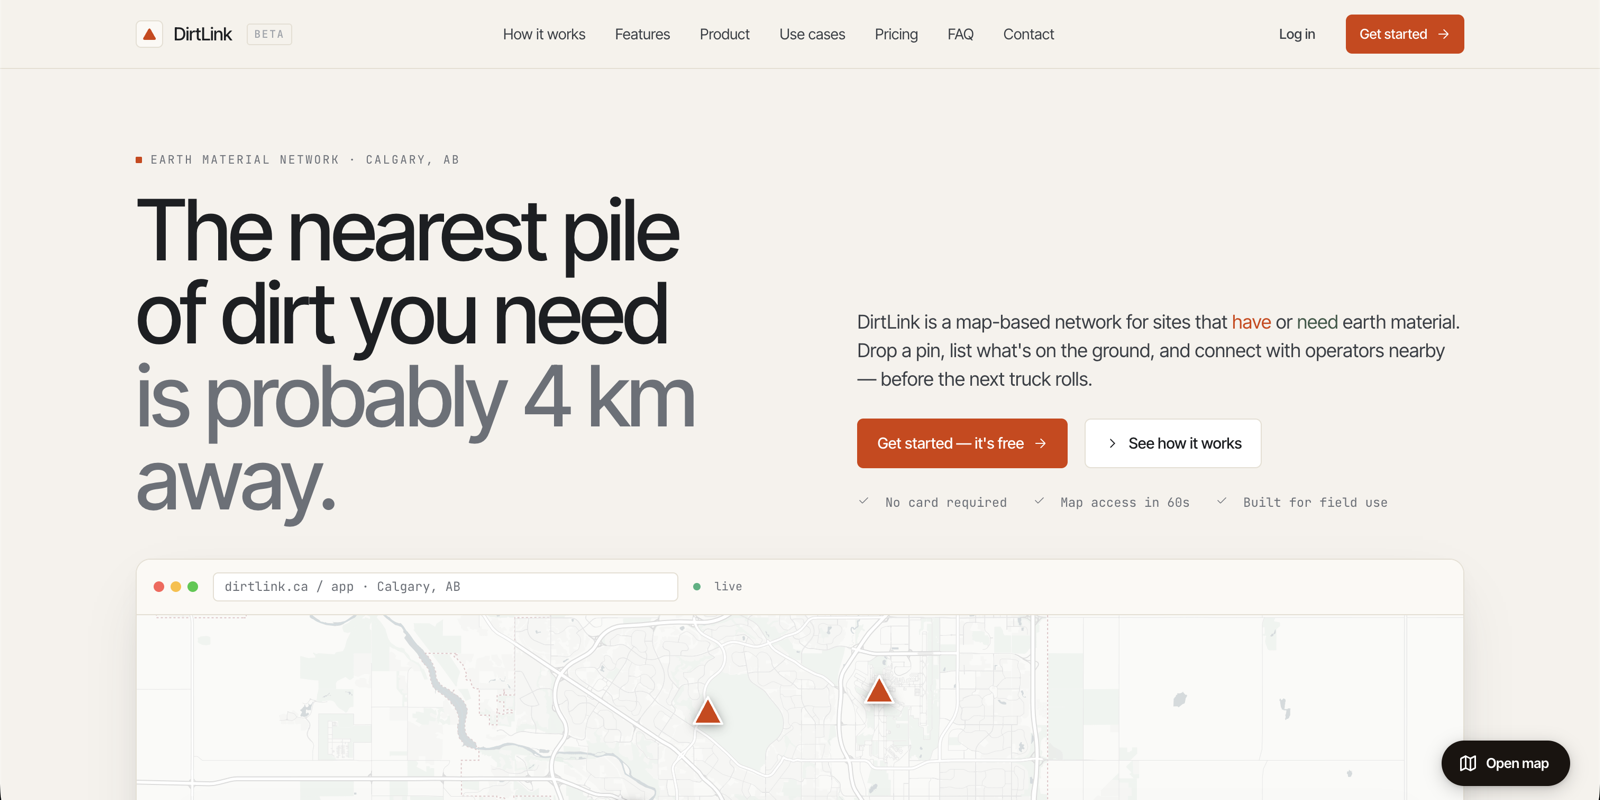
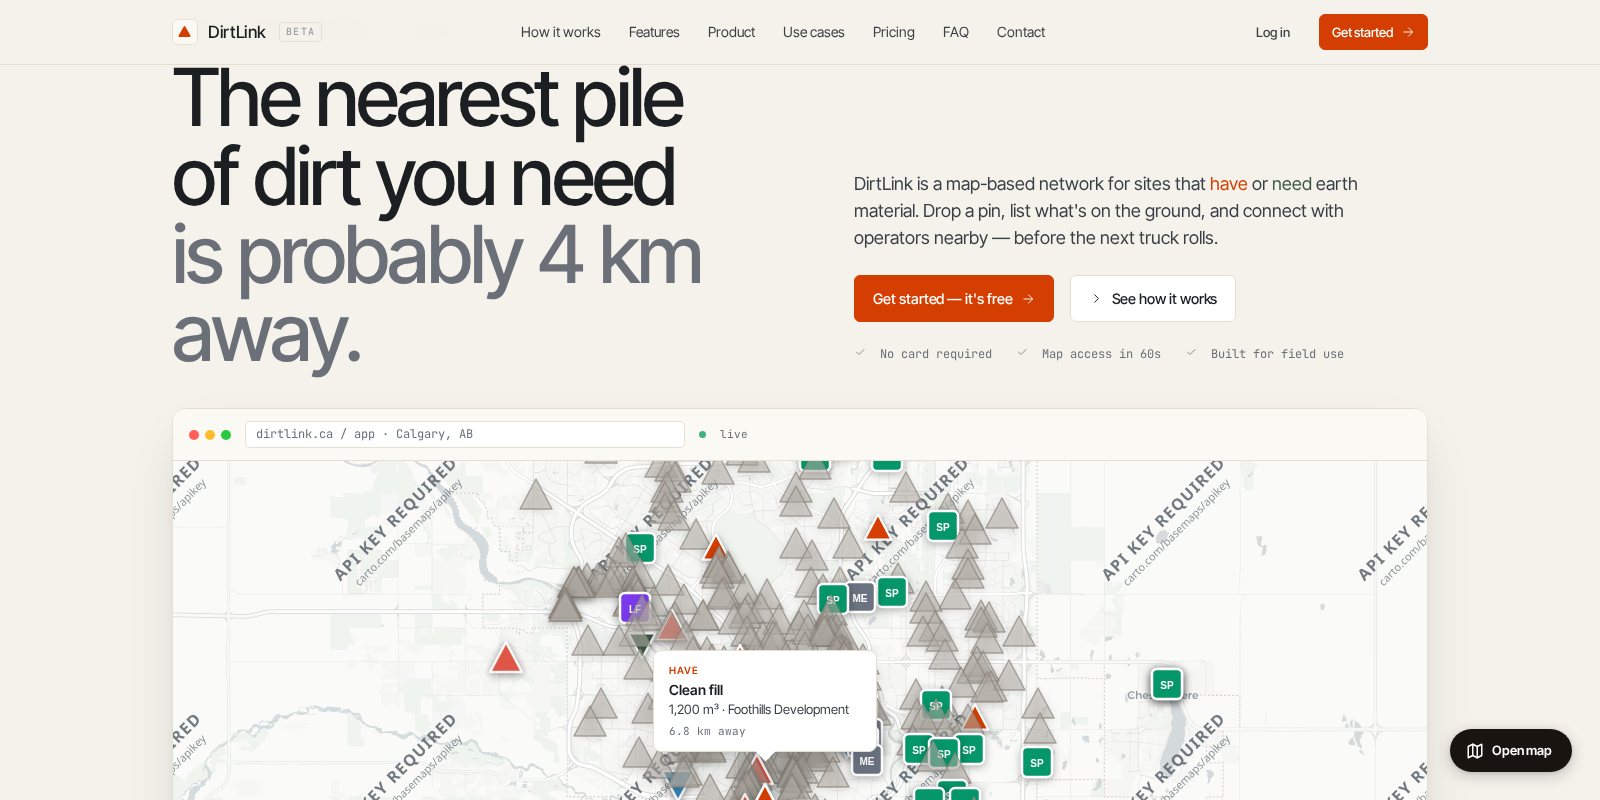
Refresh Digital Builders portfolio projects

diff --git a/src/lib/content.ts b/src/lib/content.ts
@@ -296,9 +296,9 @@ export const projects: Project[] = [
     type: "Marketplace · Web App",
     year: "2026",
     slug: "dirtlink",
-    cover: "/work/dirtlink/cover-v2.png",
+    cover: "/work/dirtlink/cover.png",
     summary:
-      "A map-based marketplace that lets Calgary construction sites post and find earth material nearby — replacing text threads and spreadsheets with one regional map.",
+      "A map-based marketplace that helps Calgary construction teams post, find, and move earth material nearby.",
     caseStudy: {
       facts: [
         { label: "Industry", value: "Construction · Calgary, AB" },
@@ -307,36 +307,31 @@ export const projects: Project[] = [
         { label: "Live site", value: "dirtlink.ca", href: "https://dirtlink.ca" },
       ],
       overview:
-        "DirtLink is a map-based network for construction sites that have or need earth material. In Calgary, contractors haul perfectly good fill to landfill while sites nearby need it — because nobody has a view across the region. DirtLink fixes that: drop a pin, list what's on the ground, and connect with operators nearby before the next truck rolls.",
+        "DirtLink gives construction teams a regional map for earth material. Sites can post what they have or need, then connect with nearby operators before the next truck rolls.",
       approachTitle: "Our approach",
       approachIntro:
-        "We designed and built DirtLink end-to-end in four months — from brand and product strategy through a live, map-first web app. The whole experience is organized around a single regional map instead of scattered texts and spreadsheets.",
+        "We shaped the product around field use: fast posting, map-first discovery, clear listing details, and direct paths from a site need to a nearby match.",
       approach: [
-        "Map-based discovery — every site, pin and listing on one regional map",
-        "Have / Need listings that match material between nearby sites",
-        "Smart filters by material, quantity, radius, access & availability",
-        "Direct messaging threaded to each site and listing",
-        "Soils reports, geotech docs & site photos attached to listings",
-        "Proximity alerts when a match appears in your working radius",
-        "Claimed site ownership and verification",
+        "Map-based discovery for sites, pins, and listings",
+        "Have / Need listings for matching material nearby",
+        "Filters for material type, quantity, radius, access, and availability",
+        "Direct messaging and claimed site ownership flows",
+        "Mobile-friendly interface for truck dash and site trailer use",
       ],
       implementation:
-        "Built for field use — fast enough for the truck dash and detailed enough for the project desk. Launched in Calgary as a free early-access beta: post and browse with no card required.",
-      results: "Delivered in four months and live in Calgary:",
+        "Built as a custom web app with a live Calgary beta, structured for listings, accounts, maps, and future marketplace growth.",
+      results: "Delivered and launched as a working early-access product:",
       resultsList: [
-        "Launched as a free early-access beta — no card required",
-        "Replaces the text-thread-and-spreadsheet loop with one map",
-        "Built for every role — excavation, developers, operators, trucking, contractors & municipalities",
-        "Targets the 30%+ of fill that goes to disposal while nearby sites need it",
+        "Replaced scattered texts and spreadsheets with one map",
+        "Created a clearer workflow for material reuse across nearby sites",
+        "Supported contractors, operators, trucking, developers, and municipalities",
       ],
       quote: "Earth material shouldn't be the thing that holds your schedule hostage.",
       images: [
-        { src: "/work/dirtlink/cover-v2.png", alt: "DirtLink landing — the nearest pile of dirt you need is probably 4 km away" },
+        { src: "/work/dirtlink/cover.png", alt: "DirtLink website screenshot" },
         { src: "/work/dirtlink/app-map.png", alt: "DirtLink app — map of Calgary sites with material pins and filters" },
         { src: "/work/dirtlink/how-it-works.png", alt: "Four steps from pile to placement" },
         { src: "/work/dirtlink/audience.png", alt: "Every role along the dirt — who DirtLink is built for" },
-        { src: "/work/dirtlink/messaging.png", alt: "Direct messaging threaded to a site and listing" },
-        { src: "/work/dirtlink/notifications.png", alt: "Notification and proximity-alert settings" },
       ],
     },
   },
@@ -347,7 +342,7 @@ export const projects: Project[] = [
     slug: "penned",
     cover: "/work/penned/cover.png",
     summary:
-      "A dead-simple e-signature web app — upload a PDF, drop signature fields, and get it signed in 30 seconds, with no bloat and no monthly fees.",
+      "A simple e-signature web app for uploading a PDF, placing signing fields, and sending documents without the usual bloat.",
     caseStudy: {
       facts: [
         { label: "Industry", value: "SaaS · E-signature" },
@@ -356,168 +351,154 @@ export const projects: Project[] = [
         { label: "Live site", value: "penned.ca", href: "https://penned.ca" },
       ],
       overview:
-        "Penned is the simplest way to get a lease, bill of sale, or any document signed online. Where tools like DocuSign pile on bloat and monthly fees, Penned does one thing well: upload a PDF, place signature fields, and send — signed in about 30 seconds. Free for up to three documents a month, with no account needed to sign.",
+        "Penned makes online signatures feel lightweight: upload a PDF, place signature fields, and send it out for signing from any device.",
       approachTitle: "Our approach",
       approachIntro:
-        "We designed and built Penned end-to-end in a single month — brand, product, and a full e-signature web app — keeping the whole experience down to three friction-free steps.",
+        "We kept the product focused on the core job: a fast document flow, clear signing state, and simple pricing instead of a heavy enterprise suite.",
       approach: [
-        "Upload any PDF or start from a template — leases, bills of sale, NDAs",
-        "Point-and-click signature, initial, date & text fields",
-        "Recipients sign from any device — no account, no app, no upsell",
-        "Instant completed PDFs delivered to both parties",
+        "Upload-first document flow",
+        "Point-and-click signature, initial, date, and text fields",
+        "Recipient signing without account friction",
         "Dashboard for documents, statuses, and saved templates",
-        "Simple, transparent pricing — free, pay-as-you-go, or unlimited",
+        "Simple pricing for occasional and frequent document senders",
       ],
       implementation:
-        "Legally binding and built to be boring on purpose: compliant with Canadian PIPEDA and U.S. ESIGN / UETA, encrypted at rest and in transit, and usable on any device with zero friction.",
-      results: "Designed, built, and launched in one month:",
+        "Designed and built as a full-stack SaaS experience with signing workflows, account areas, document handling, and billing seams.",
+      results: "Launched a focused e-signature product with a clear customer path:",
       resultsList: [
-        "Documents signed in about 30 seconds, start to finish",
-        "Free for up to 3 documents a month — no credit card required",
-        "Pricing that undercuts DocuSign's $15/mo-for-5-docs by a mile",
-        "Legally binding signatures (PIPEDA, ESIGN / UETA)",
+        "Reduced signing to a short, understandable workflow",
+        "Made the free tier and paid options easy to understand",
+        "Presented a cleaner alternative to oversized signature platforms",
       ],
       quote: "Boring on purpose. Reliable by design.",
       images: [
-        { src: "/work/penned/cover.png", alt: "Penned landing — sign documents in 30 seconds" },
+        { src: "/work/penned/cover.png", alt: "Penned website screenshot" },
         { src: "/work/penned/dashboard.png", alt: "Penned dashboard — documents, usage and saved templates" },
         { src: "/work/penned/how-it-works.png", alt: "Three steps — upload, place fields, send" },
         { src: "/work/penned/pricing.png", alt: "Pricing — free, pay-as-you-go and unlimited plans" },
-        { src: "/work/penned/billing.png", alt: "Billing and monthly plan usage" },
       ],
     },
   },
   {
-    name: "Underground Foods",
-    type: "Marketplace · Shopify",
-    year: "2025",
-    slug: "underground-foods",
-    cover: "/work/underground-foods/cover.png",
+    name: "Digital Builders",
+    type: "Agency Website · Portal",
+    year: "2026",
+    slug: "digitalbuilders",
+    cover: "/work/digitalbuilders/cover.png",
     summary:
-      "A community-driven Shopify marketplace connecting local makers and conscious buyers across Calgary.",
+      "Our own studio website and intake portal for packaged website builds, care plans, payments, and project onboarding.",
     caseStudy: {
       facts: [
-        { label: "Location", value: "Ramsay & Inglewood, Calgary" },
-        { label: "Platform", value: "Shopify" },
-        { label: "Services", value: "Strategy, UX, Shopify Development" },
-        { label: "Live site", value: "undergroundfoods.ca", href: "https://undergroundfoods.ca" },
+        { label: "Industry", value: "Web design studio" },
+        { label: "Stack", value: "Next.js · Stripe · CRM" },
+        { label: "Services", value: "Brand, Website, Portal, Payments" },
+        { label: "Live site", value: "digitalbuilders.ca", href: "https://digitalbuilders.ca" },
       ],
       overview:
-        "Underground Foods connects local makers and conscious buyers in Ramsay & Inglewood, Calgary. The mission: make local food easy to access, support small producers, and build a neighbourhood where quality and connection matter.",
+        "Digital Builders needed a site that explains the offer quickly, shows real work, and routes new clients into a structured intake and payment flow.",
+      approachTitle: "Our approach",
       approachIntro:
-        "We ran strategy and research to define the core features, mapping the weekly ordering and pickup flows. Shopify was chosen as the MVP platform for a fast launch with room to scale.",
+        "We combined a polished public marketing site with a practical backend path for enquiries, pricing, checkout, and project intake.",
       approach: [
-        "Clear product structure and categories",
-        "Easy seller onboarding",
-        "Weekly pickup logistics — order Monday, pick up Wednesday",
-        "Free memberships to reduce friction",
-        "Trust-building copy and local storytelling",
+        "Clear service and pricing pages for local business owners",
+        "Portfolio and case-study structure for shipped projects",
+        "Stripe-backed intake and checkout flow",
+        "CRM-connected project tracking and operational handoff",
+        "Self-hosted analytics and production deployment on DigitalOcean",
       ],
       implementation:
-        "We delivered a functional Shopify storefront, Tally form integration for product submissions, and automated order summaries for sellers.",
-      results:
-        "The MVP launched successfully on Shopify — buyers can browse products and schedule weekly pickups, while sellers receive automated Monday order summaries. The structure supports future custom dashboards, multi-location pickup, and enhanced inventory tracking across Calgary.",
-      quote:
-        "Underground Foods is now positioned to grow, attract more makers, and become a digital hub supporting small businesses across Calgary.",
-      images: [
-        { src: "/work/underground-foods/cover.png", alt: "Underground Foods website shown on a laptop" },
-        { src: "/work/underground-foods/homepage.png", alt: "Underground Foods homepage — shop local whole foods" },
-        { src: "/work/underground-foods/features.png", alt: "For Farmers & Makers: how it works section" },
-        { src: "/work/underground-foods/membership.png", alt: "Buyer and Seller membership tiers" },
-        { src: "/work/underground-foods/shopify-admin.png", alt: "Shopify admin product catalogue" },
-      ],
-    },
-  },
-  {
-    name: "DigitalAI",
-    type: "AI SaaS · Framer",
-    year: "2024",
-    slug: "digitalai",
-    cover: "/work/digitalai/cover.png",
-    summary:
-      "A bold, dark-themed single-page site and no-code MVP for an AI lead-generation startup — built in Framer with an Airtable lead workflow.",
-    caseStudy: {
-      facts: [
-        { label: "Industry", value: "AI lead-gen startup" },
-        { label: "Year", value: "2024" },
-        { label: "Stack", value: "Framer · Airtable" },
-        { label: "Services", value: "UX, Copy, No-code Build" },
-      ],
-      overview:
-        "DigitalAI is an early-stage startup automating lead generation for businesses through AI-powered workflows. The goal: a modern single-page site that positions the brand as innovative and trustworthy, while validating the concept with a functional MVP.",
-      approachTitle: "Our process",
-      approachIntro:
-        "We ran research and strategy, sharpened the messaging, designed a bold dark-themed interface, and shipped the whole thing as a no-code MVP in Framer.",
-      approach: [
-        "Audience analysis, competitor research & clear USPs",
-        "Conversion-focused UX structure and flow",
-        "Value-based copy with a clear problem → solution narrative",
-        "Modern dark theme — bold type, gradients, neon accents, micro-interactions",
-        "Built fully in Framer with a pop-up contact form",
-        "Airtable integration for lead management",
-      ],
-      implementation:
-        "Everything was delivered as a responsive, performance-optimized single-page experience — ready to put in front of investors and early clients.",
-      results: "The launch delivered measurable outcomes and a validated MVP:",
+        "Built as a production Next.js site with static marketing pages, server-backed portal routes, Stripe integration, and Digital Builders CRM connections.",
+      results: "A sharper agency site with the operations layer behind it:",
       resultsList: [
-        "3.8% conversion rate in the first months",
-        "Improved engagement & time on page",
-        "Seamless Airtable workflow for incoming leads",
-        "MVP ready for investor & client validation",
+        "Made packages, care plans, and ownership terms easier to understand",
+        "Added a structured path from interest to intake",
+        "Created a portfolio system for current and future projects",
       ],
+      quote: "Built for the same clarity we sell to clients.",
       images: [
-        { src: "/work/digitalai/cover.png", alt: "DigitalAI website shown across two displays" },
-        { src: "/work/digitalai/hero.png", alt: "DigitalAI hero — transform traffic into qualified leads" },
-        { src: "/work/digitalai/features.png", alt: "Why choose our AI Bot — feature grid" },
-        { src: "/work/digitalai/results.png", alt: "Proven results — conversion, time saved and uptime stats" },
-        { src: "/work/digitalai/pricing.png", alt: "Flexible pricing plans for every business" },
+        { src: "/work/digitalbuilders/cover.png", alt: "Digital Builders website screenshot" },
       ],
     },
   },
   {
-    name: "Finverity",
-    type: "Fintech · Webflow",
-    year: "2023",
-    slug: "finverity",
-    cover: "/work/finverity/cover.png",
+    name: "Wild Rose Peptides",
+    type: "E-commerce · Admin Backend",
+    year: "2026",
+    slug: "wildrosepeptides",
+    cover: "/work/wildrosepeptides/cover.png",
     summary:
-      "A 7-page Webflow site for a wealth-management firm, backed by Airtable and Notion with automation to streamline client and internal operations.",
+      "A beta-gated peptide storefront with product catalogue, checkout, COA publishing, order handling, and admin tooling.",
     caseStudy: {
       facts: [
-        { label: "Industry", value: "Wealth Management" },
-        { label: "Year", value: "2023" },
-        { label: "Stack", value: "Webflow · Airtable · Notion" },
-        { label: "Services", value: "UX, Web Design & Dev, Automation" },
+        { label: "Industry", value: "E-commerce · Wellness" },
+        { label: "Stack", value: "Astro · Python · SQLite · Stripe" },
+        { label: "Services", value: "Storefront, Checkout, Admin, COA System" },
+        { label: "Live site", value: "wildrosepeptides.ca", href: "https://wildrosepeptides.ca" },
       ],
       overview:
-        "Finverity is redefining wealth management by combining technology with personalized financial services. We built a 7-page Webflow site backed by Airtable and Notion — supporting both a polished client experience and the team's internal operations.",
-      approachTitle: "Our process",
+        "Wild Rose Peptides needed a trustworthy product storefront plus an operational backend for inventory, checkout, certificates of analysis, customer data, and fulfilment workflows.",
+      approachTitle: "Our approach",
       approachIntro:
-        "We moved from strategy and UX into a trust-building UI, then a Webflow build wired to automated data and collaboration tools.",
+        "We treated the storefront and admin tools as one system: polished public pages, careful product data, secure uploads, and admin actions that update what customers see.",
       approach: [
-        "Wireframes, sitemap & conversion-focused user journeys",
-        "Market research & positioning",
-        "Professional, trust-building UI with clear hierarchy",
-        "Responsive layouts across all devices",
-        "7-page Webflow build",
-        "Airtable for data, Notion for team collaboration",
-        "Custom automation to cut manual work and support scale",
+        "Responsive storefront and product pages",
+        "Stripe checkout and order handling",
+        "COA upload, archive, restore, and customer-accessible report links",
+        "Inventory and price management through a protected admin area",
+        "Shipping and contact workflow integrations",
       ],
       implementation:
-        "Third-party integrations tie the stack together, so the site and its workflows scale as the business grows.",
-      results: "Key outcomes for Finverity:",
+        "Delivered as a static storefront with companion backend services on DigitalOcean, including protected admin routes and runtime storage for live operations.",
+      results: "A production-ready commerce foundation for a regulated catalogue:",
       resultsList: [
-        "Faster processing of client requests",
-        "Reduced manual data entry",
-        "Clear internal workflows",
-        "Professional online presence ready for growth",
+        "Connected product, inventory, checkout, and COA data",
+        "Reduced manual certificate and order-management work",
+        "Kept sensitive admin tooling separated from the customer storefront",
       ],
+      quote: "Trust-building commerce needs clean public pages and careful backend controls.",
       images: [
-        { src: "/work/finverity/cover.png", alt: "Finverity homepage — streamline your wealth" },
-        { src: "/work/finverity/overview.png", alt: "Gain a complete overview of your financial horizon" },
-        { src: "/work/finverity/benefits.png", alt: "Finverity stats and benefits section" },
-        { src: "/work/finverity/problem-solution.png", alt: "Problem and solution breakdown, built just for you" },
-        { src: "/work/finverity/showcase.png", alt: "Collage of Finverity website screens" },
+        { src: "/work/wildrosepeptides/cover.png", alt: "Wild Rose Peptides website screenshot" },
+      ],
+    },
+  },
+  {
+    name: "TrueTrades",
+    type: "Directory · Lead Generation",
+    year: "2026",
+    slug: "truetrades",
+    cover: "/work/truetrades/cover.png",
+    summary:
+      "A Calgary trades directory built to help homeowners browse categories, compare contractors, and request quotes.",
+    caseStudy: {
+      facts: [
+        { label: "Industry", value: "Trades · Local directory" },
+        { label: "Location", value: "Calgary, AB" },
+        { label: "Services", value: "Directory UX, Content System, Lead Forms" },
+        { label: "Live site", value: "truetrades.ca", href: "https://truetrades.ca" },
+      ],
+      overview:
+        "TrueTrades gives homeowners a calmer way to browse local trades categories and request quotes without sorting through noisy generic search results.",
+      approachTitle: "Our approach",
+      approachIntro:
+        "We focused the experience around fast category browsing, compact contractor cards, and quote prompts that stay available without overwhelming the listings.",
+      approach: [
+        "Category landing pages with visual service cards",
+        "Compact contractor listings with forward-facing copy",
+        "Sticky quote request panel on larger screens",
+        "Lead form handling and notification service",
+        "SEO-friendly static structure for local search growth",
+      ],
+      implementation:
+        "Built as a fast static directory with a lightweight backend contact handler, hosted behind Nginx on DigitalOcean.",
+      results: "A local directory foundation ready to grow category by category:",
+      resultsList: [
+        "Made service categories easier to scan and navigate",
+        "Cleaned contractor cards for a more customer-facing feel",
+        "Added a quote path that remains accessible while browsing",
+      ],
+      quote: "Find the right trade without the search-engine chaos.",
+      images: [
+        { src: "/work/truetrades/cover.png", alt: "TrueTrades website screenshot" },
       ],
     },
   },
